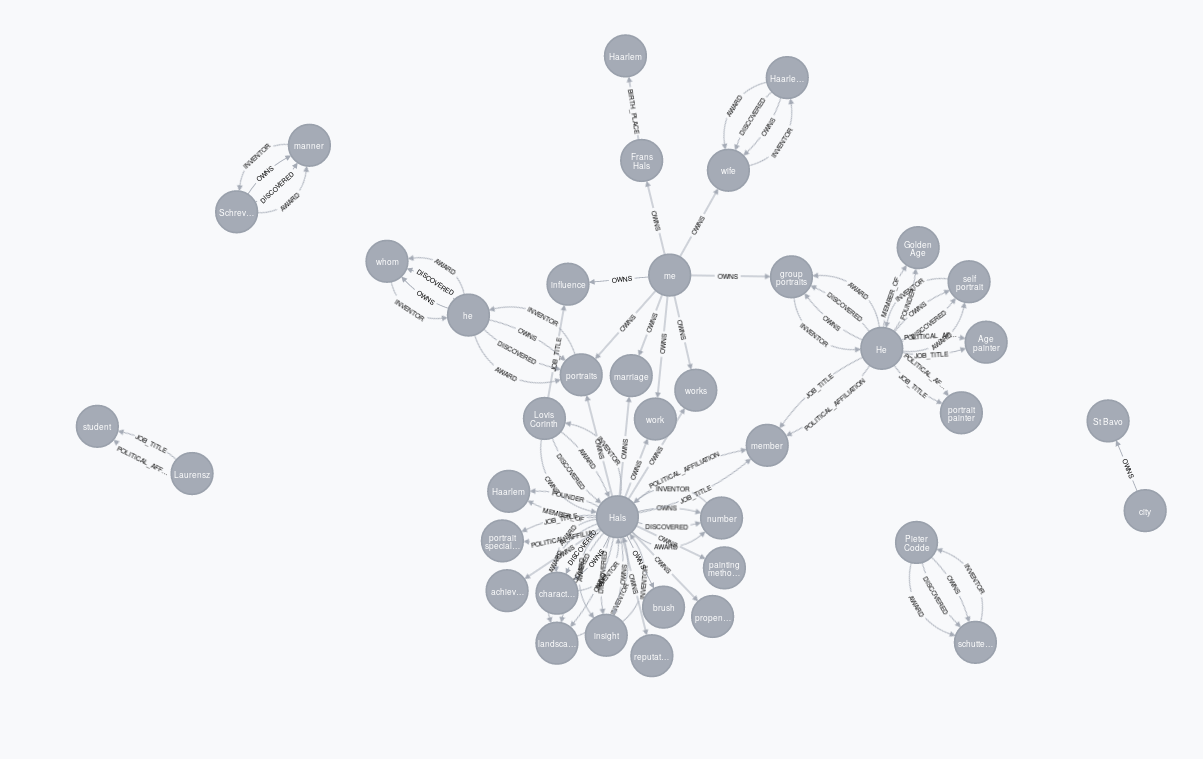
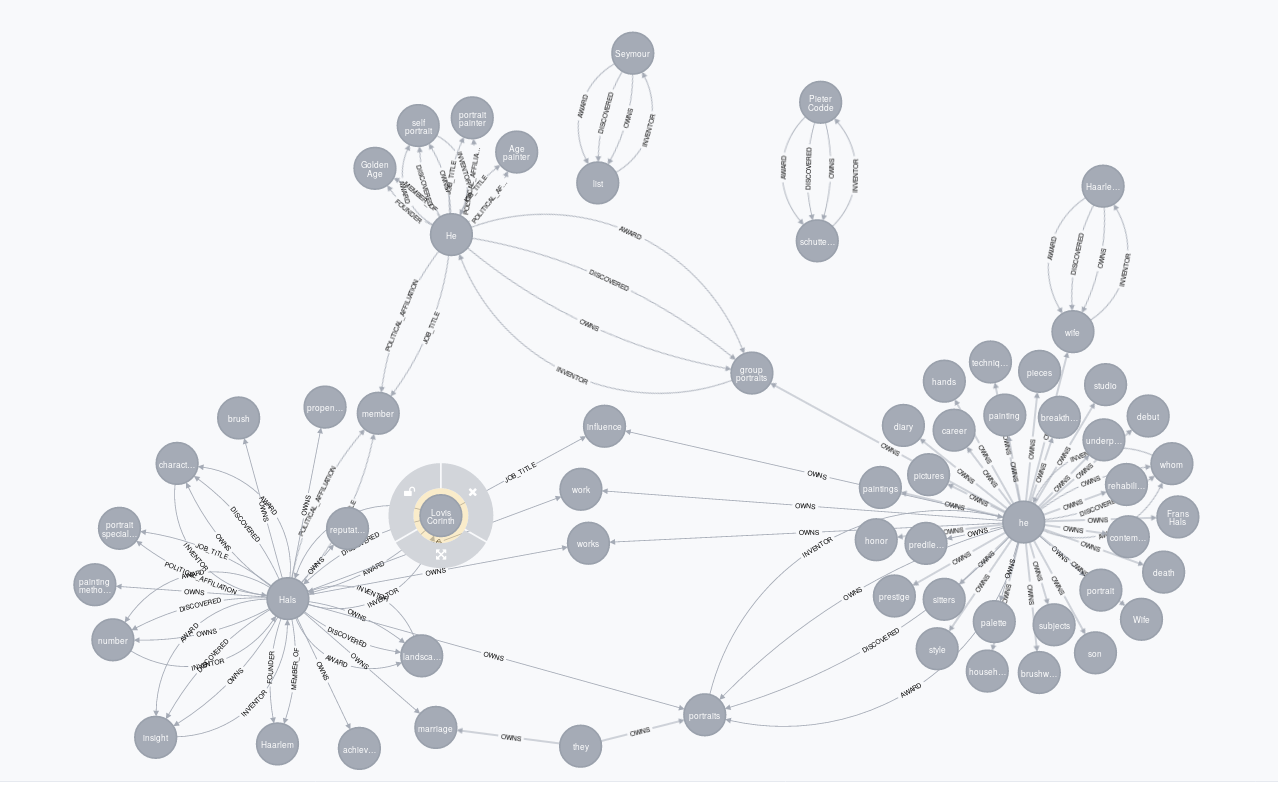
updated pronouns

diff --git a/pynsett/nl/__init__.py b/pynsett/nl/__init__.py
@@ -76,7 +76,9 @@ class SpacyParser:
             entities.append(entity)
         return entities, new_words
 
-    def __get_lemma_with_correct_capital_letters(self, lemma, word):
+    def __get_lemma_with_correct_capital_letters(self, lemma, word, tag):
+        if tag == 'PRP$':
+            return word.lower()
         if lemma.lower() == word.lower():
             return word
         return lemma
@@ -99,7 +101,7 @@ class SpacyParser:
                 edges.append((index, child_index))
             tags.append(simplify_tag(item.tag_))
             types.append(item.dep_)
-            lemmas.append(self.__get_lemma_with_correct_capital_letters(item.lemma_, item.orth_))
+            lemmas.append(self.__get_lemma_with_correct_capital_letters(item.lemma_, item.orth_, item.tag_))
         for i, entity in enumerate(entities):
             token = parsed[i]
             if not entity:

diff --git a/pynsett/examples/sentence_creation.py b/pynsett/examples/sentence_creation.py
@@ -8,7 +8,7 @@ from pynsett.writer import RelationTripletsWriter
 
 _path = os.path.dirname(__file__)
 
-sentence = 'I have a bicycle'
+sentence = 'His dog was red'
 #sentence = 'My own dog is red'
 #sentence = 'Jane has a bicycle'
 #sentence = 'Jane is an engineer'
@@ -21,7 +21,8 @@ knowledge.add_rules(open(os.path.join(_path, '../rules/test.rules')).read())
 #knowledge.add_rules(open(os.path.join(_path, '../rules/generic_relations.rules')).read())
 
 fi = ForwardInference(drs, knowledge)
-drs_and_weight = fi.compute()
+drs_and_weights = fi.compute()
 
 writer = RelationTripletsWriter()
-print(drs_and_weight[0].visit(writer))
+for drs_and_weight in drs_and_weights:
+    print(drs_and_weight[0].visit(writer))
